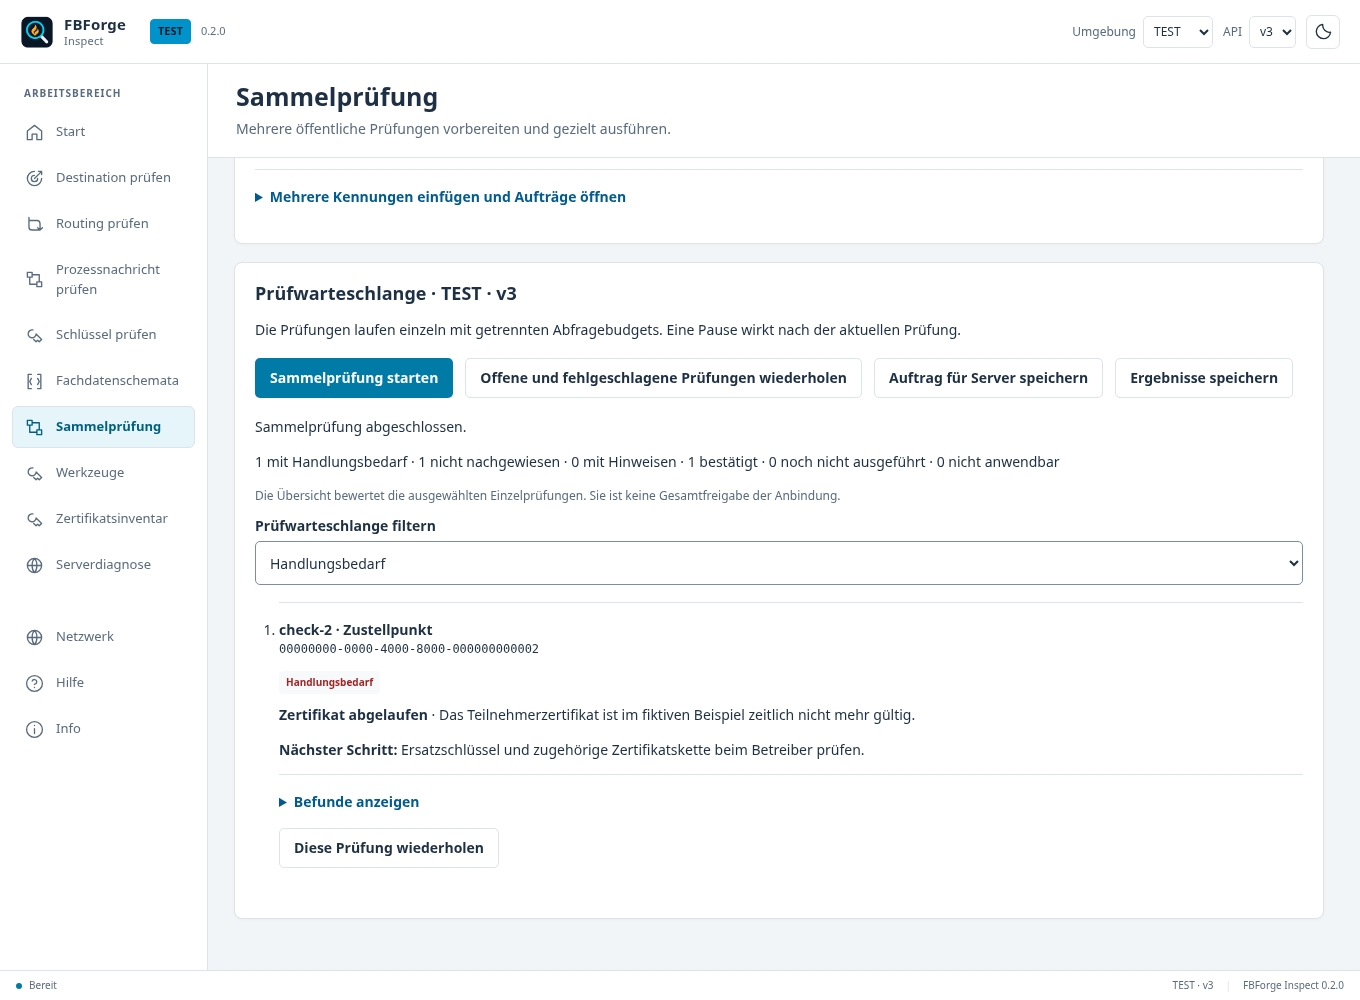
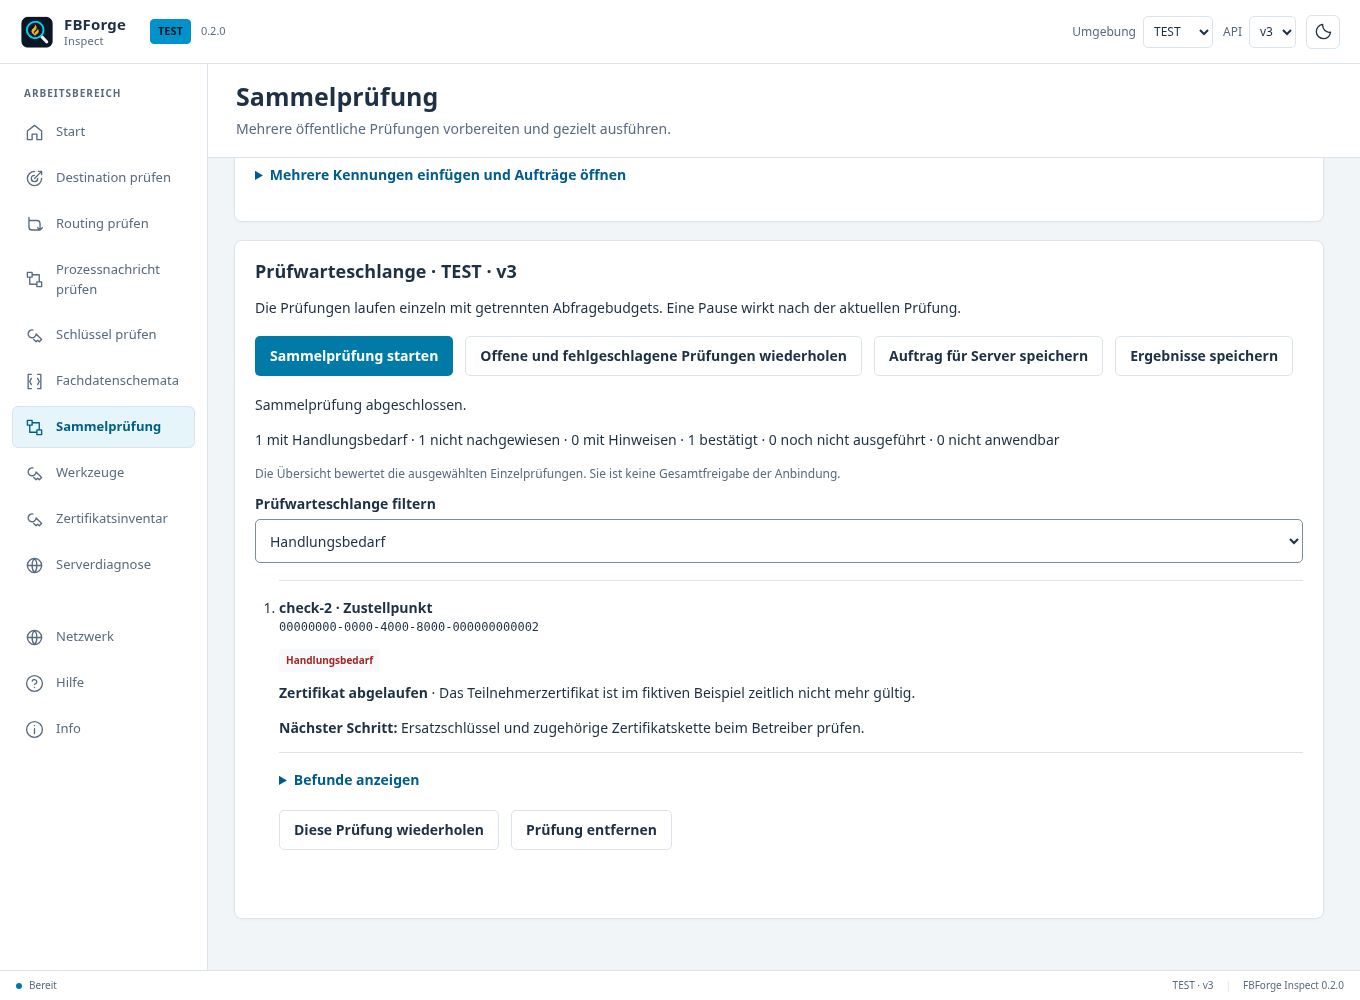
fix(workflows): remove batch checks and unblock tool navigation

diff --git a/tests/ui/analysis.spec.ts b/tests/ui/analysis.spec.ts
@@ -446,6 +446,8 @@ test('batch pause waits for the active check and cancellation retains completed 
   await page.getByRole('button', { name: 'Prüfungen vorbereiten' }).click();
   await page.getByRole('button', { name: 'Sammelprüfung starten', exact: true }).click();
   await expect.poll(() => page.evaluate(() => (window as any).__started)).toBe(1);
+  for (const button of await page.getByRole('button', { name: /^Prüfung entfernen:/ }).all())
+    await expect(button).toBeDisabled();
   await page.getByRole('button', { name: 'Nach aktueller Prüfung pausieren' }).click();
   await page.evaluate(() => (window as any).__pending());
   await expect(
@@ -726,6 +728,14 @@ test('guided batch entry keeps completed results and exposes errors without open
   await page
     .locator('.check-queue')
     .screenshot({ path: '.local/quality/screenshots/integrator-batch-error.png' });
+  await page.getByRole('button', { name: 'Prüfung entfernen: check-2', exact: true }).click();
+  await expect(page.getByLabel('Prüfwarteschlange filtern')).toBeFocused();
+  await expect(page.getByText('Keine Prüfungen für diesen Filter.', { exact: true })).toBeVisible();
+  await page.getByLabel('Prüfwarteschlange filtern').selectOption('all');
+  await expect(page.locator('.check-queue > li')).toHaveCount(2);
+  await expect(
+    page.locator('.check-queue').getByText('Geprüfte Einzelpunkte bestätigt', { exact: true }),
+  ).toBeVisible();
 });
 
 test('server package contains public job and associates imported result with exact exported bytes', async ({
@@ -914,3 +924,156 @@ for (const status of [200, 404]) {
     ).toBeVisible();
   });
 }
+
+test('removing a batch check preserves other results and excludes deleted checks from exports', async ({
+  page,
+}) => {
+  await nativeBridge(page);
+  await page.goto('/');
+  await navigate(page, 'Sammelprüfung');
+  await page
+    .getByLabel('Prüfeingaben', { exact: true })
+    .fill(`${destination}\nnetwork\n${destination.replace(/1$/, '2')}`);
+  await page.getByRole('button', { name: 'Prüfungen vorbereiten', exact: true }).click();
+  await page.getByRole('button', { name: 'Prüfung entfernen: check-2', exact: true }).click();
+  await expect(page.locator('.check-queue > li')).toHaveCount(2);
+  await expect(
+    page.getByRole('button', { name: 'Prüfung entfernen: check-3', exact: true }),
+  ).toBeFocused();
+  await page.getByRole('button', { name: 'Auftrag für Server speichern', exact: true }).click();
+  expect(
+    await page.evaluate(() =>
+      JSON.parse((window as any).__saved[0].content).checks.map((c: any) => c.id),
+    ),
+  ).toEqual(['check-1', 'check-3']);
+  expect(await page.evaluate(() => (window as any).__inspectCalls.length)).toBe(0);
+  await page.getByRole('button', { name: 'Sammelprüfung starten', exact: true }).click();
+  await expect(page.getByText('Sammelprüfung abgeschlossen.', { exact: true })).toBeVisible();
+  const first = page.getByRole('button', { name: 'Prüfung entfernen: check-1', exact: true });
+  await first.focus();
+  await page.keyboard.press('Enter');
+  await expect(page.locator('.check-queue > li')).toHaveCount(1);
+  await expect(
+    page.locator('.check-queue').getByText('Nicht nachgewiesen', { exact: true }),
+  ).toBeVisible();
+  await page.getByRole('button', { name: 'Ergebnisse speichern', exact: true }).click();
+  expect(
+    await page.evaluate(() =>
+      JSON.parse((window as any).__saved[1].content).checks.map((c: any) => c.id),
+    ),
+  ).toEqual(['check-3']);
+  await page
+    .getByRole('combobox', { name: 'Prüfung auswählen', exact: true })
+    .selectOption('network');
+  await page.getByRole('button', { name: 'Prüfung hinzufügen', exact: true }).click();
+  await expect(
+    page.locator('.check-queue').getByText('Noch nicht ausgeführt', { exact: true }),
+  ).toHaveCount(1);
+  await expect(
+    page.locator('.check-queue').getByText('Nicht nachgewiesen', { exact: true }),
+  ).toHaveCount(1);
+  await page.getByRole('button', { name: 'Prüfung entfernen: check-3', exact: true }).click();
+  await page.getByRole('button', { name: 'Prüfung entfernen: check-1', exact: true }).click();
+  await expect(page.locator('.check-queue')).toHaveCount(0);
+  await expect(page.getByRole('button', { name: 'Prüfung hinzufügen', exact: true })).toBeFocused();
+  await expect(
+    page.getByText('Prüfung check-1 entfernt. Der Auftrag ist leer.', { exact: true }),
+  ).toBeVisible();
+});
+
+test('a running reverse-routing tool can be cancelled before returning to Start', async ({
+  page,
+}) => {
+  await page.addInitScript((fixture) => {
+    const w = window as any;
+    Object.assign(w, {
+      isTauri: true,
+      __cancelled: false,
+      __finish: null,
+      __TAURI_INTERNALS__: {
+        invoke: (command: string) => {
+          if (command === 'diagnose')
+            return new Promise((resolve) => {
+              w.__finish = () =>
+                resolve({ ok: true, report: { ...fixture, operation: 'reverse' } });
+            });
+          if (command === 'cancel') {
+            w.__cancelled = true;
+            w.__finish();
+            return Promise.resolve(true);
+          }
+          return Promise.resolve(false);
+        },
+      },
+    });
+  }, report);
+  await page.goto('/');
+  await navigate(page, 'Werkzeuge');
+  await page.getByRole('combobox', { name: 'Aufgabe', exact: true }).selectOption('reverse');
+  await page.getByRole('textbox', { name: 'Destination-ID', exact: true }).fill(destination);
+  await page.getByRole('button', { name: 'Rückwärtsprüfung starten', exact: true }).click();
+  const home = page
+    .getByRole('navigation', { name: 'Hauptnavigation' })
+    .getByRole('button', { name: 'Start', exact: true });
+  await expect(home).toBeDisabled();
+  await page.screenshot({
+    path:
+      process.env.INSPECT_UPDATE_DOC_IMAGES === '1'
+        ? 'docs/images/tools-busy.png'
+        : '.local/quality/screenshots/tools-busy.png',
+  });
+  await page.getByRole('button', { name: 'Abbrechen', exact: true }).click();
+  await expect(home).toBeEnabled();
+  expect(await page.evaluate(() => (window as any).__cancelled)).toBe(true);
+  await home.click();
+  await expect(page.getByRole('heading', { name: 'Was möchten Sie prüfen?' })).toBeVisible();
+  await navigate(page, 'Werkzeuge');
+  await expect(page.getByRole('combobox', { name: 'Aufgabe', exact: true })).toHaveValue('reverse');
+  await expect(page.getByRole('textbox', { name: 'Destination-ID', exact: true })).toHaveValue(
+    destination,
+  );
+  await expect(page.getByRole('heading', { name: 'Diagnoseergebnis', exact: true })).toHaveCount(0);
+});
+
+test('completed reverse-routing tools return to Start without losing their inputs', async ({
+  page,
+}) => {
+  await nativeBridge(page);
+  await page.goto('/');
+  await navigate(page, 'Werkzeuge');
+  await page.getByRole('combobox', { name: 'Aufgabe', exact: true }).selectOption('reverse');
+  await page.getByRole('textbox', { name: 'Destination-ID', exact: true }).fill(destination);
+  await page.getByRole('button', { name: 'Rückwärtsprüfung starten', exact: true }).click();
+  await expect(page.getByRole('heading', { name: 'Diagnoseergebnis', exact: true })).toBeVisible();
+  await navigate(page, 'Start');
+  await expect(page.getByRole('heading', { name: 'Was möchten Sie prüfen?' })).toBeVisible();
+  await navigate(page, 'Werkzeuge');
+  await expect(page.getByRole('textbox', { name: 'Destination-ID', exact: true })).toHaveValue(
+    destination,
+  );
+  await expect(page.getByRole('heading', { name: 'Diagnoseergebnis', exact: true })).toBeVisible();
+});
+
+test('a failed tool request displays its error and leaves Start available', async ({ page }) => {
+  await page.addInitScript(() =>
+    Object.assign(window, {
+      isTauri: true,
+      __TAURI_INTERNALS__: {
+        invoke: async (command: string) =>
+          command === 'diagnose'
+            ? { ok: false, error: 'Fiktiver Abruf konnte nicht abgeschlossen werden.' }
+            : false,
+      },
+    }),
+  );
+  await page.goto('/');
+  await navigate(page, 'Werkzeuge');
+  await page.getByRole('combobox', { name: 'Aufgabe', exact: true }).selectOption('reverse');
+  await page.getByRole('textbox', { name: 'Destination-ID', exact: true }).fill(destination);
+  await page.getByRole('button', { name: 'Rückwärtsprüfung starten', exact: true }).click();
+  await expect(page.getByRole('alert')).toHaveText(
+    'Fiktiver Abruf konnte nicht abgeschlossen werden.',
+  );
+  await navigate(page, 'Start');
+  await expect(page.getByRole('heading', { name: 'Was möchten Sie prüfen?' })).toBeVisible();
+});

diff --git a/frontend/src/BatchView.vue b/frontend/src/BatchView.vue
@@ -1,5 +1,5 @@
 <script setup lang="ts">
-import { computed, ref } from 'vue';
+import { computed, nextTick, ref } from 'vue';
 import { labels } from './contracts';
 import { resultState, outcomeNames, operationNames, attention } from './workflow';
 import FailureGuidance from './FailureGuidance.vue';
@@ -23,6 +23,9 @@ const kind = ref('destination'),
   service = ref(''),
   region = ref('');
 const filter = ref('all');
+const queue = ref<HTMLOListElement | null>(null);
+const addButton = ref<HTMLButtonElement | null>(null);
+const filterSelect = ref<HTMLSelectElement | null>(null);
 const counts = computed(() => ({
   error: props.batch.checks.filter((c) => resultState(props.batch.results[c.id]) === 'error')
     .length,
@@ -48,6 +51,14 @@ const visibleChecks = computed(() =>
         : resultState(props.batch.results[c.id]) === filter.value),
   ),
 );
+async function removeCheck(id: string) {
+  const index = visibleChecks.value.findIndex((check) => check.id === id);
+  if (!props.batch.remove(id)) return;
+  await nextTick();
+  const buttons = queue.value?.querySelectorAll<HTMLButtonElement>('button[data-remove-check]');
+  const next = buttons?.[Math.min(index, buttons.length - 1)];
+  (next || (props.batch.checks.length ? filterSelect.value : addButton.value))?.focus();
+}
 function addCheck() {
   try {
     const line =
@@ -186,7 +197,7 @@ function retryIds() {
             >Vollständiger ARS<input v-model="region" required pattern="(DE)?[0-9]{12}"
           /></label>
         </template>
-        <button class="button secondary" type="submit">Prüfung hinzufügen</button>
+        <button ref="addButton" class="button secondary" type="submit">Prüfung hinzufügen</button>
       </fieldset>
     </form>
     <details>
@@ -217,6 +228,7 @@ function retryIds() {
       </p>
     </details>
     <p v-if="error" role="alert" class="error-text">{{ error }}</p>
+    <p v-if="!batch.checks.length" role="status">{{ batch.message }}</p>
     <div v-if="pending" class="notice">
       <h3>Verbindungsweg aus dem Auftrag</h3>
       <pre tabindex="0">{{ JSON.stringify(pending.network, null, 2) }}</pre>
@@ -292,7 +304,7 @@ function retryIds() {
       Anbindung.
     </p>
     <label
-      >Prüfwarteschlange filtern<select v-model="filter">
+      >Prüfwarteschlange filtern<select ref="filterSelect" v-model="filter">
         <option value="all">Alle Prüfungen</option>
         <option value="attention">Offene Befunde und Hinweise</option>
         <option value="error">Handlungsbedarf</option>
@@ -300,7 +312,7 @@ function retryIds() {
       </select></label
     >
     <p v-if="!visibleChecks.length">Keine Prüfungen für diesen Filter.</p>
-    <ol class="check-queue">
+    <ol ref="queue" class="check-queue">
       <li v-for="check in visibleChecks" :key="check.id">
         <strong>{{ check.id }} · {{ operationNames[check.operation] || check.operation }}</strong>
         <p class="mono">
@@ -344,13 +356,24 @@ function retryIds() {
             {{ finding.detail }}
           </p>
         </details>
-        <button
-          v-if="batch.results[check.id] && !batch.busy"
-          class="button secondary"
-          @click="batch.start([check.id])"
-        >
-          Diese Prüfung wiederholen
-        </button>
+        <div class="action-row">
+          <button
+            v-if="batch.results[check.id] && !batch.busy"
+            class="button secondary"
+            @click="batch.start([check.id])"
+          >
+            Diese Prüfung wiederholen
+          </button>
+          <button
+            class="button secondary"
+            data-remove-check
+            :aria-label="`Prüfung entfernen: ${check.id}`"
+            :disabled="batch.busy"
+            @click="removeCheck(check.id)"
+          >
+            Prüfung entfernen
+          </button>
+        </div>
       </li>
     </ol>
   </section>

diff --git a/frontend/src/useBatch.ts b/frontend/src/useBatch.ts
@@ -51,6 +51,15 @@ export function useBatch(network: () => Record<string, unknown>) {
     apiVersion.value = api;
     message.value = 'Prüfung hinzugefügt. Vorhandene Ergebnisse bleiben erhalten.';
   }
+  function remove(id: string) {
+    if (busy.value || !checks.value.some((check) => check.id === id)) return false;
+    checks.value = checks.value.filter((check) => check.id !== id);
+    delete results[id];
+    message.value = checks.value.length
+      ? `Prüfung ${id} entfernt. Übrige Prüfungen und Ergebnisse bleiben erhalten.`
+      : `Prüfung ${id} entfernt. Der Auftrag ist leer.`;
+    return true;
+  }
   function job(): PortableJob {
     const settings = network();
     return parseJob(
@@ -185,6 +194,7 @@ export function useBatch(network: () => Record<string, unknown>) {
     activeId,
     setJob,
     append,
+    remove,
     job,
     start,
     resume,

diff --git a/frontend/src/App.vue b/frontend/src/App.vue
@@ -364,6 +364,17 @@ async function openSchema(url: string) {
             @changed="clear"
           />
         </KeepAlive>
+        <template v-if="page === 'tools'">
+          <div v-if="diagnosisBusy" class="busy-panel panel" role="status">
+            <span class="spinner" aria-hidden="true"></span>
+            <div>
+              <strong>Prüfung läuft</strong>
+              <p>Öffentliche Antworten werden abgerufen und ausgewertet.</p>
+            </div>
+            <button class="button secondary" @click="cancel">Abbrechen</button>
+          </div>
+          <p v-if="error" class="notice error-notice" role="alert">{{ error }}</p>
+        </template>
         <InventoryView
           v-if="page === 'inventory'"
           :reports="allReports"

diff --git a/scripts/ci/nvda-capture.py b/scripts/ci/nvda-capture.py
@@ -57,7 +57,7 @@ class GlobalPlugin(globalPluginHandler.GlobalPlugin):
         text = " ".join(part for part in speechSequence if isinstance(part, str))[:2048]
         if text.strip():
             name = api.getFocusObject().name
-            known = {'Umgebung', 'API', 'Darstellung wählen', 'Destination prüfen', 'Destination-ID', 'Routing prüfen', 'Prozessnachricht prüfen', 'Schlüssel prüfen', 'Fachdatenschemata', 'Hilfe', 'Prüfung starten', 'JSON Schema / XSD', 'Start', 'Hilfe durchsuchen', 'Sammelprüfung', 'Prüfung auswählen', 'Kennung oder öffentliche URL', 'Prüfung hinzufügen', 'Prüfeingaben', 'Prüfungen vorbereiten', 'Werkzeuge', 'Aufgabe', 'Zertifikatsinventar', 'Serverdiagnose', 'Portables CLI exportieren', 'Info', 'Nach Updates suchen'}
+            known = {'Umgebung', 'API', 'Darstellung wählen', 'Destination prüfen', 'Destination-ID', 'Routing prüfen', 'Prozessnachricht prüfen', 'Schlüssel prüfen', 'Fachdatenschemata', 'Hilfe', 'Prüfung starten', 'JSON Schema / XSD', 'Start', 'Hilfe durchsuchen', 'Sammelprüfung', 'Prüfung auswählen', 'Kennung oder öffentliche URL', 'Prüfung hinzufügen', 'Prüfung entfernen: check-1', 'Prüfeingaben', 'Prüfungen vorbereiten', 'Werkzeuge', 'Aufgabe', 'Zertifikatsinventar', 'Serverdiagnose', 'Portables CLI exportieren', 'Info', 'Nach Updates suchen'}
             self.write({"text": text, "focus": name if name in known else "(other control)"})
 
     def terminate(self):

diff --git a/tests/nvda_capture_test.py b/tests/nvda_capture_test.py
@@ -38,7 +38,7 @@ class CaptureTests(unittest.TestCase):
                 module = importlib.util.module_from_spec(spec)
                 spec.loader.exec_module(module)
                 observer = module.GlobalPlugin()
-                labels = ['Hilfe durchsuchen', 'Sammelprüfung', 'Prüfung auswählen', 'Kennung oder öffentliche URL', 'Prüfung hinzufügen', 'Prüfeingaben',
+                labels = ['Hilfe durchsuchen', 'Sammelprüfung', 'Prüfung auswählen', 'Kennung oder öffentliche URL', 'Prüfung hinzufügen', 'Prüfung entfernen: check-1', 'Prüfeingaben',
                           'Prüfungen vorbereiten', 'Werkzeuge', 'Aufgabe',
                           'Zertifikatsinventar', 'Serverdiagnose', 'Portables CLI exportieren',
                           'Info', 'Nach Updates suchen']

diff --git a/CHANGELOG.md b/CHANGELOG.md
@@ -2,6 +2,9 @@
 
 ## 0.2.0
 
+- Einzelne Checks samt zugehörigem Ergebnis aus Sammelprüfungen entfernen. Übrige Einträge bleiben erhalten und der Tastaturfokus bleibt im Ablauf.
+- Laufende Werkzeugprüfungen zeigen Fortschritt, Abbrechen und Fehlermeldungen. Nach dem Abbruch ist die Rückkehr zur Startseite wieder möglich.
+
 - Geführte Prüfaufträge, sichtbare Sammelergebnisse mit Handlungsbedarf und Filter. Bereits abgeschlossene Ergebnisse bleiben beim Ergänzen erhalten.
 - CLI und vorbereiteter öffentlicher Auftrag werden gemeinsam exportiert. Serverergebnisse lassen sich anhand der exakten Auftragsbytes zuordnen.
 - Fehlgeschlagene Verbindungsphasen erklären nachfolgende ungeprüfte Schritte und führen bei lokalen Prüfungen direkt zu den Netzwerkeinstellungen.
